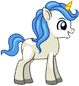
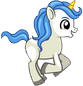
Added unicorn animation

diff --git a/Application/unicorn.py b/Application/unicorn.py
@@ -3,63 +3,72 @@ import pygame
 
 class Unicorn:
     def __init__(self, settings, screen):
-        """Initialize the ship and set its starting position."""
+        """Initialize the unicorn and set its starting position."""
         self.screen = screen
         self.settings = settings
 
-        # Load the ship image and get its rect.
-        self.run_images = get_run_images(self)
-        self.image = self.run_images[0]
+        # Load the unicorn's running and flying images and get its' rect.
+        self.run_images = get_run_images(settings.screen_width)
+        self.fly_images = get_fly_images(settings.screen_width)
+        self.run_iteration = 0
+        self.image = self.run_images[self.run_iteration]
         self.rect = self.image.get_rect()
         self.screen_rect = screen.get_rect()
 
-        # Store a decimal value for the ship's center.
-        self.centery = float(self.rect.centery)
-        self.centerx = float(self.rect.centerx)
+        # Store a decimal value for the unicorn's center.
+        self.center = float(self.rect.centery)
 
-        # Start each new ship at the bottom center of the screen.
-        self.rect.centery = self.centery
+        # Start each new unicorn at the left center of the screen.
+        self.rect.centery = self.center
         self.rect.left = self.screen_rect.left
 
-        # Movement flag
+        # Movement flags
         self.moving_up = False
         self.moving_down = False
-        self.moving_left = False
-        self.moving_right = False
-
-        # Fire flag
-        self.fire = False
 
     def update(self):
-        """Update the ship's position based on the movement flags."""
-        # Update the ship's center value, not the rect.
-        if self.moving_up and self.rect.top > 0:
-            self.centery -= self.settings.ship_speed_factor
-        if self.moving_down and self.rect.bottom < self.screen_rect.bottom:
-            self.centery += self.settings.ship_speed_factor
-        if self.moving_left and self.rect.left > 0:
-            self.centerx -= self.settings.ship_speed_factor
-        if self.moving_right and self.rect.right < (self.settings.screen_width * 0.2):
-            self.centerx += self.settings.ship_speed_factor
+        """Update the unicorn's image and position
+         based on the movement flags."""
+        if self.moving_up == self.moving_down:
+            self.run_iteration += 0.009
+            if self.run_iteration >= len(self.run_images):
+                self.run_iteration = 0
+            self.image = self.run_images[int(self.run_iteration)]
+        else:
+            if self.moving_up and self.rect.top > 0:
+                self.center -= self.settings.unicorn_speed
+                self.run_iteration = 0
+                self.image = self.fly_images[0]
+            if self.moving_down and self.rect.bottom < self.screen_rect.bottom:
+                self.center += self.settings.unicorn_speed
+                self.run_iteration = 0
+                self.image = self.fly_images[1]
 
         # Update rect object from self.center.
-        self.rect.centery = self.centery
-        self.rect.centerx = self.centerx
+        self.rect = self.image.get_rect()
+        self.rect.centery = self.center
 
     def draw(self):
-        """Draw the ship at its current location."""
+        """Draw the unicorn at its current location."""
         self.screen.blit(self.image, self.rect)
 
 
-def scale_size(self, image):
+def scale_size(width, image):
     """Масштабирование картинки ракеты в зависимости от размера окна."""
     rect = image.get_rect()
     scale = rect[3] / rect[2]
-    width = self.settings.screen_width // 15
+    width = width // 15
     height = int(width * scale)
     return width, height
 
 
-def get_run_images(self):
-    tmp = [pygame.image.load(f'images/run/{i + 1}.png') for i in range(5)]
-    return [pygame.transform.scale(im, scale_size(self, im)) for im in tmp]
+def get_run_images(width):
+    tmp = [pygame.image.load(f'images/run/{i + 1}.png') for i in range(6)]
+    return [pygame.transform.scale(im, scale_size(width, im)) for im in tmp]
+
+
+def get_fly_images(width):
+    up = pygame.image.load('images/run/up.png')
+    down = pygame.image.load('images/run/down.png')
+    tmp = (up, down)
+    return [pygame.transform.scale(im, scale_size(width, im)) for im in tmp]

diff --git a/Application/game_functions.py b/Application/game_functions.py
@@ -1,71 +1,63 @@
 import sys
 import pygame
-from Application.bullet import Bullet
+from Application.powerball import Powerball
 
 
-def check_events(settings, screen, unicorn, bullets):
+def check_events(settings, screen, unicorn, powerballs):
     """Respond to key presses and mouse events."""
     for event in pygame.event.get():
         if event.type == pygame.QUIT:
             sys.exit()
         elif event.type == pygame.KEYDOWN:
-            check_key_down_events(event, settings, screen, unicorn, bullets)
+            check_key_down_events(event, settings, screen, unicorn, powerballs)
         elif event.type == pygame.KEYUP:
             check_key_up_events(event, unicorn)
 
 
-def check_key_down_events(event, settings, screen, unicorn, bullets):
+def check_key_down_events(event, settings, screen, unicorn, powerballs):
     """Respond to key presses."""
     if event.key == pygame.K_SPACE:
-        fire_bullet(settings, screen, unicorn, bullets)
+        fire_powerball(settings, screen, unicorn, powerballs)
     if event.key == pygame.K_UP:
         unicorn.moving_up = True
     elif event.key == pygame.K_DOWN:
         unicorn.moving_down = True
-    elif event.key == pygame.K_LEFT:
-        unicorn.moving_left = True
-    elif event.key == pygame.K_RIGHT:
-        unicorn.moving_right = True
 
 
 def check_key_up_events(event, unicorn):
-    """Respond to key presses."""
+    """Respond to key unpresses."""
     if event.key == pygame.K_UP:
         unicorn.moving_up = False
     elif event.key == pygame.K_DOWN:
         unicorn.moving_down = False
-    elif event.key == pygame.K_LEFT:
-        unicorn.moving_left = False
-    elif event.key == pygame.K_RIGHT:
-        unicorn.moving_right = False
 
 
-def fire_bullet(settings, screen, unicorn, bullets):
-    if len(bullets) < settings.bullets_limit:
-        new_bullet = Bullet(settings, screen, unicorn)
-        bullets.add(new_bullet)
+def fire_powerball(settings, screen, unicorn, powerballs):
+    if len(powerballs) < settings.powerballs_limit:
+        new_powerball = Powerball(settings, screen, unicorn)
+        powerballs.add(new_powerball)
 
 
-def update_bullets(bullets, settings):
+def update_powerballs(powerballs, settings):
     """Обновляет позиции пуль и уничтожает старые пули."""
     # Обновление позиций пуль.
-    bullets.update()
+    powerballs.update()
     # Удаление пуль, вышедших за край экрана.
-    for bullet in bullets.copy():
-        if bullet.rect.left > settings.screen_width:
-            bullets.remove(bullet)
+    for powerball in powerballs.copy():
+        if powerball.rect.left > settings.screen_width:
+            powerballs.remove(powerball)
 
 
-def update_screen(settings, screen, unicorn, bullets):
+def update_screen(settings, screen, unicorn, powerballs):
     """Update images on the screen and flip to the new screen."""
     # Redraw the screen during each pass through the loop.
     screen.fill(settings.bg_color)
 
     unicorn.draw()  # Redraw unicorn.
 
-    # Redraw all bullets behind unicorn and aliens.
-    for bullet in bullets.sprites():
-        bullet.draw()
+    # Redraw all powerballs behind unicorn and aliens.
+    for powerball in powerballs.sprites():
+        powerball.draw()
 
     # Make the most recently drawn screen visible.
     pygame.display.flip()

diff --git a/Application/settings.py b/Application/settings.py
@@ -15,11 +15,22 @@ class Settings:
         self.favicon = pygame.image.load("images/favicon.png")
 
         # Ship settings
-        self.ship_speed_factor = 1
+        self.unicorn_speed = 0.5
 
-        # Bullet settings
-        self.bullet_speed_factor = 2
-        self.bullet_width = 15
-        self.bullet_height = 3
-        self.bullet_color = (255, 255, 33)
-        self.bullets_limit = 3
+        # powerball settings
+        self.powerball_speed_factor = 0.8
+        self.powerball_width = 15
+        self.powerball_height = 3
+        self.powerballs_limit = 5
+        self.powerball_image = pygame.image.load('images/powerball.png')
+        self.powerball_image = pb_scale(self.screen_width, self.powerball_image)
+        self.powerball_rect = self.powerball_image.get_rect()
+
+
+def pb_scale(width, image):
+    """Масштабирование картинки ракеты в зависимости от размера окна."""
+    rect = image.get_rect()
+    scale = rect[3] / rect[2]
+    width = width // 50
+    height = int(width * scale)
+    return pygame.transform.scale(image, (width, height))

diff --git a/Application/main.py b/Application/main.py
@@ -13,16 +13,16 @@ def run_game():
     pygame.display.set_caption(settings.name)
     pygame.display.set_icon(settings.favicon)
 
-    # Make a unicorn and a group to store bullets in.
+    # Make a unicorn and a group to store powerballs in.
     unicorn = Unicorn(settings, screen)
-    bullets = Group()
+    powerballs = Group()
 
     # Start the main loop for the game.
     while True:
-        gf.check_events(settings, screen, unicorn, bullets)
+        gf.check_events(settings, screen, unicorn, powerballs)
         unicorn.update()
-        gf.update_bullets(bullets, settings)
-        gf.update_screen(settings, screen, unicorn, bullets)
+        gf.update_powerballs(powerballs, settings)
+        gf.update_screen(settings, screen, unicorn, powerballs)
 
 
 run_game()
